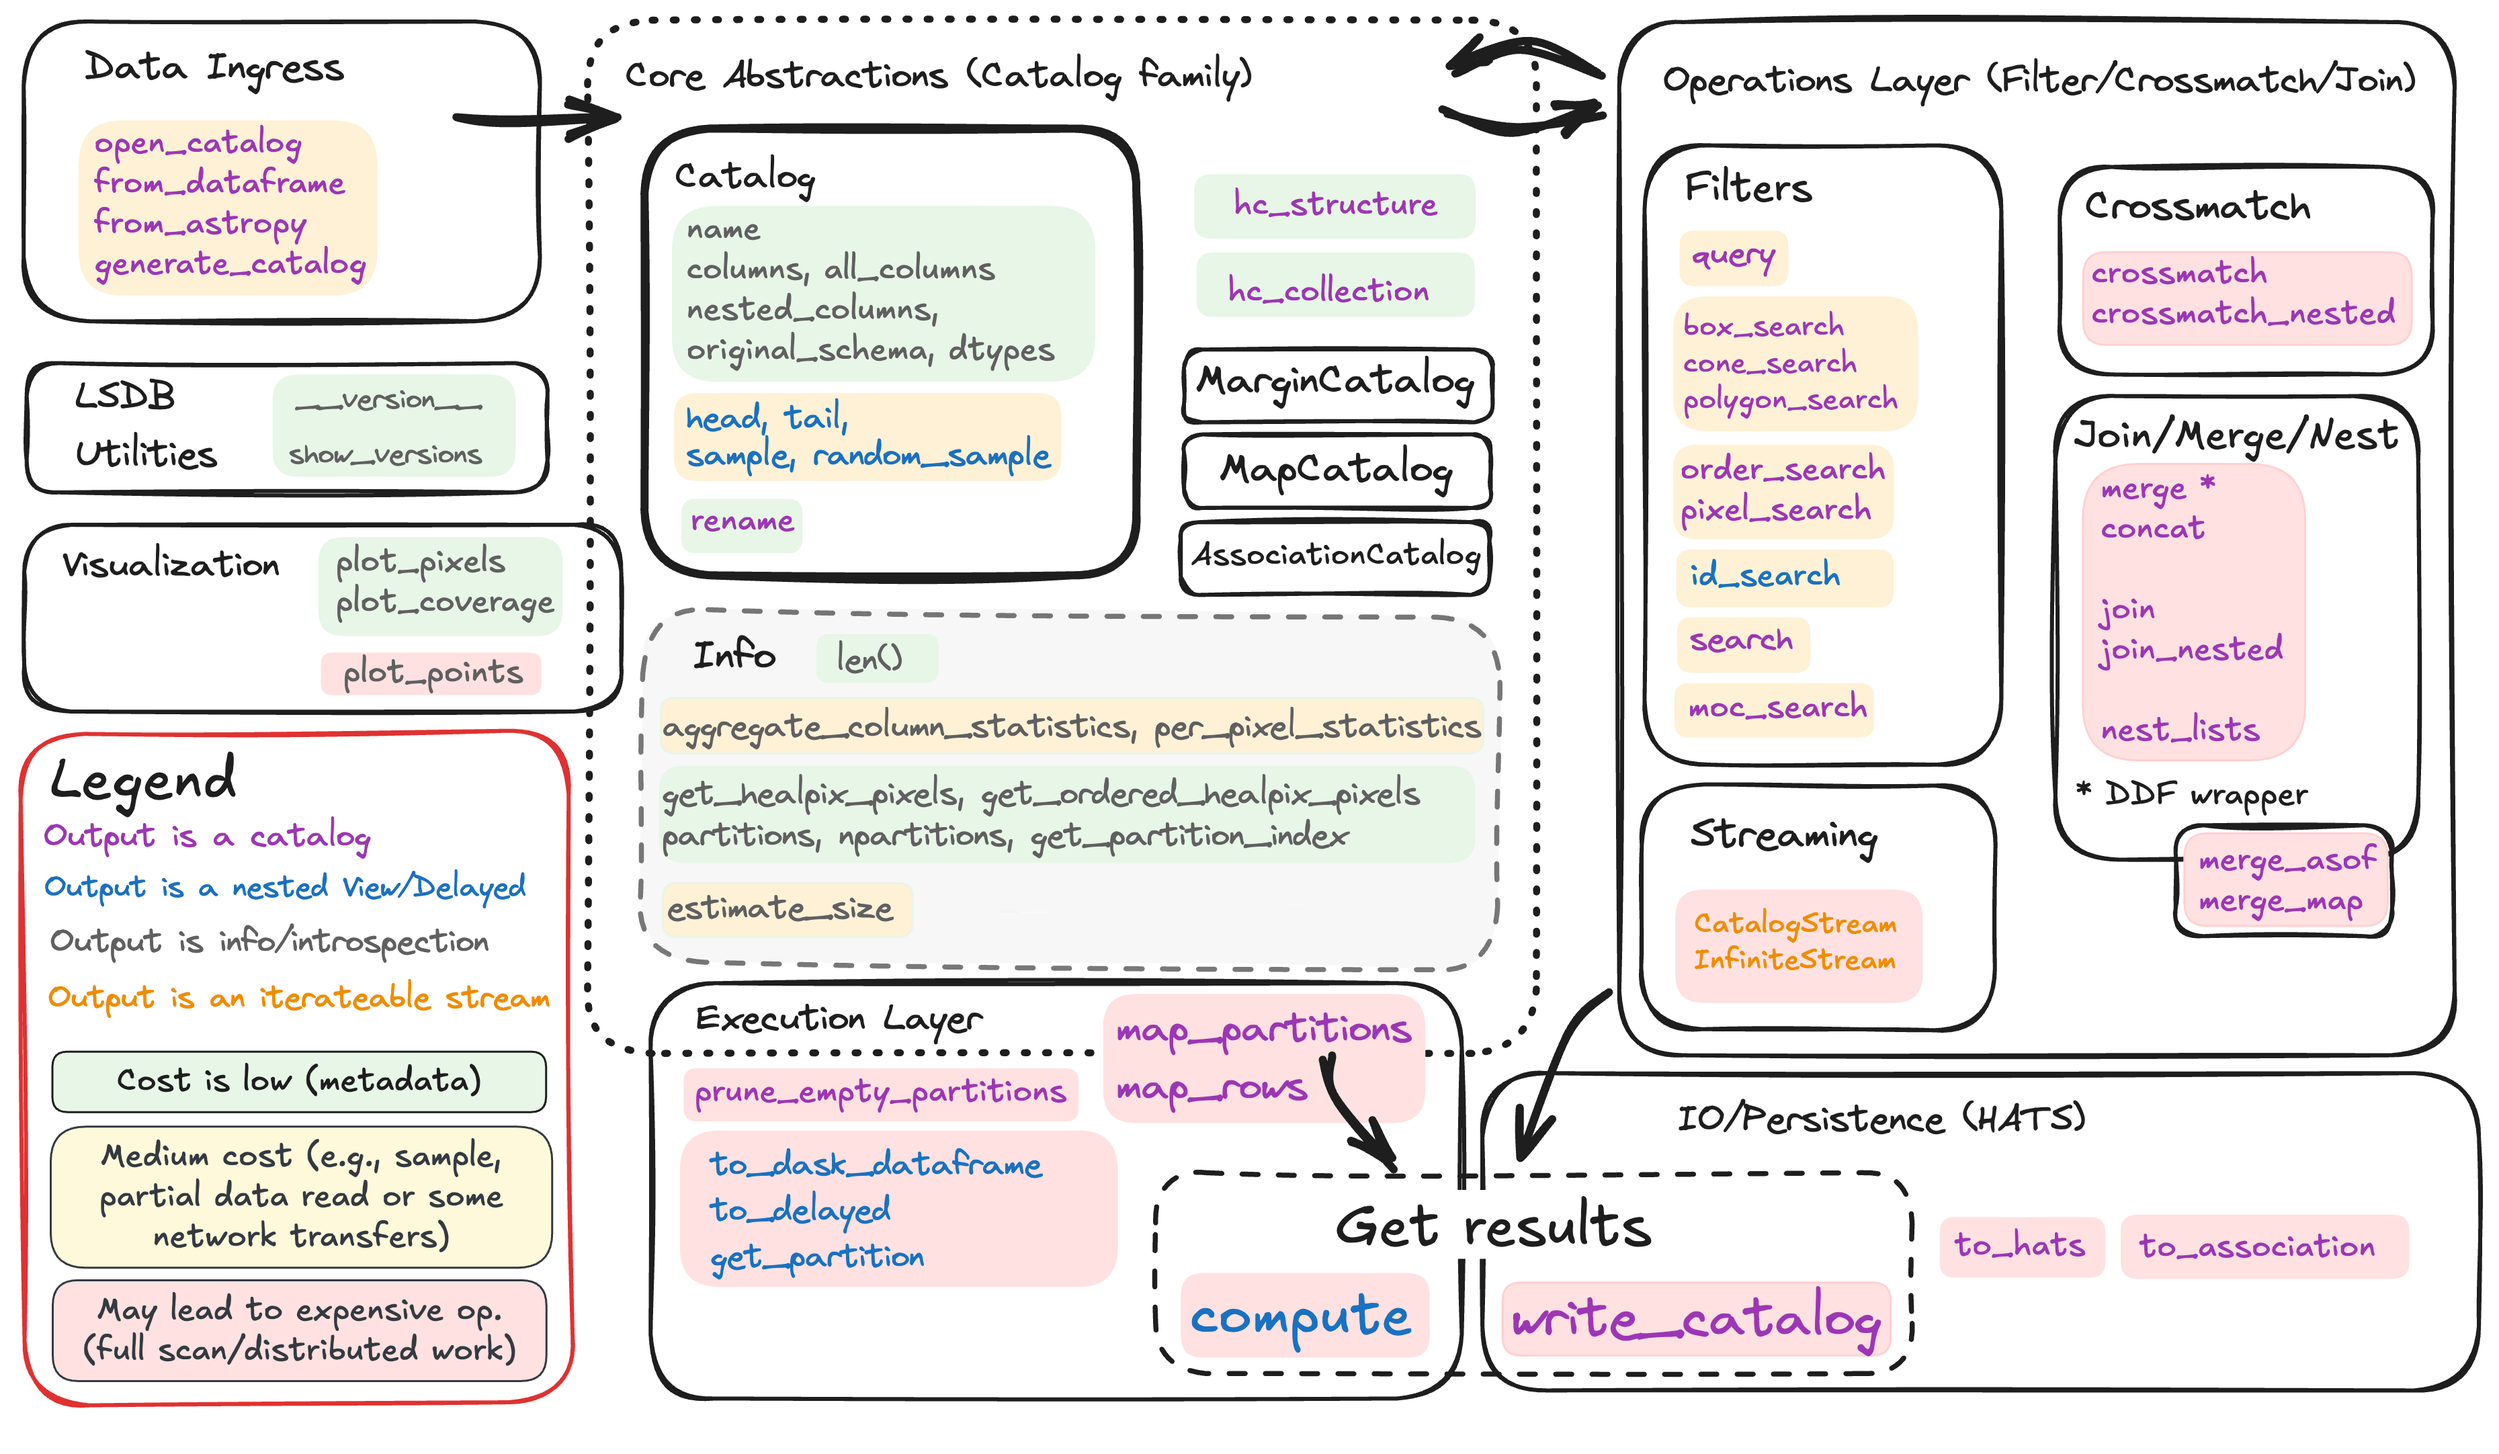
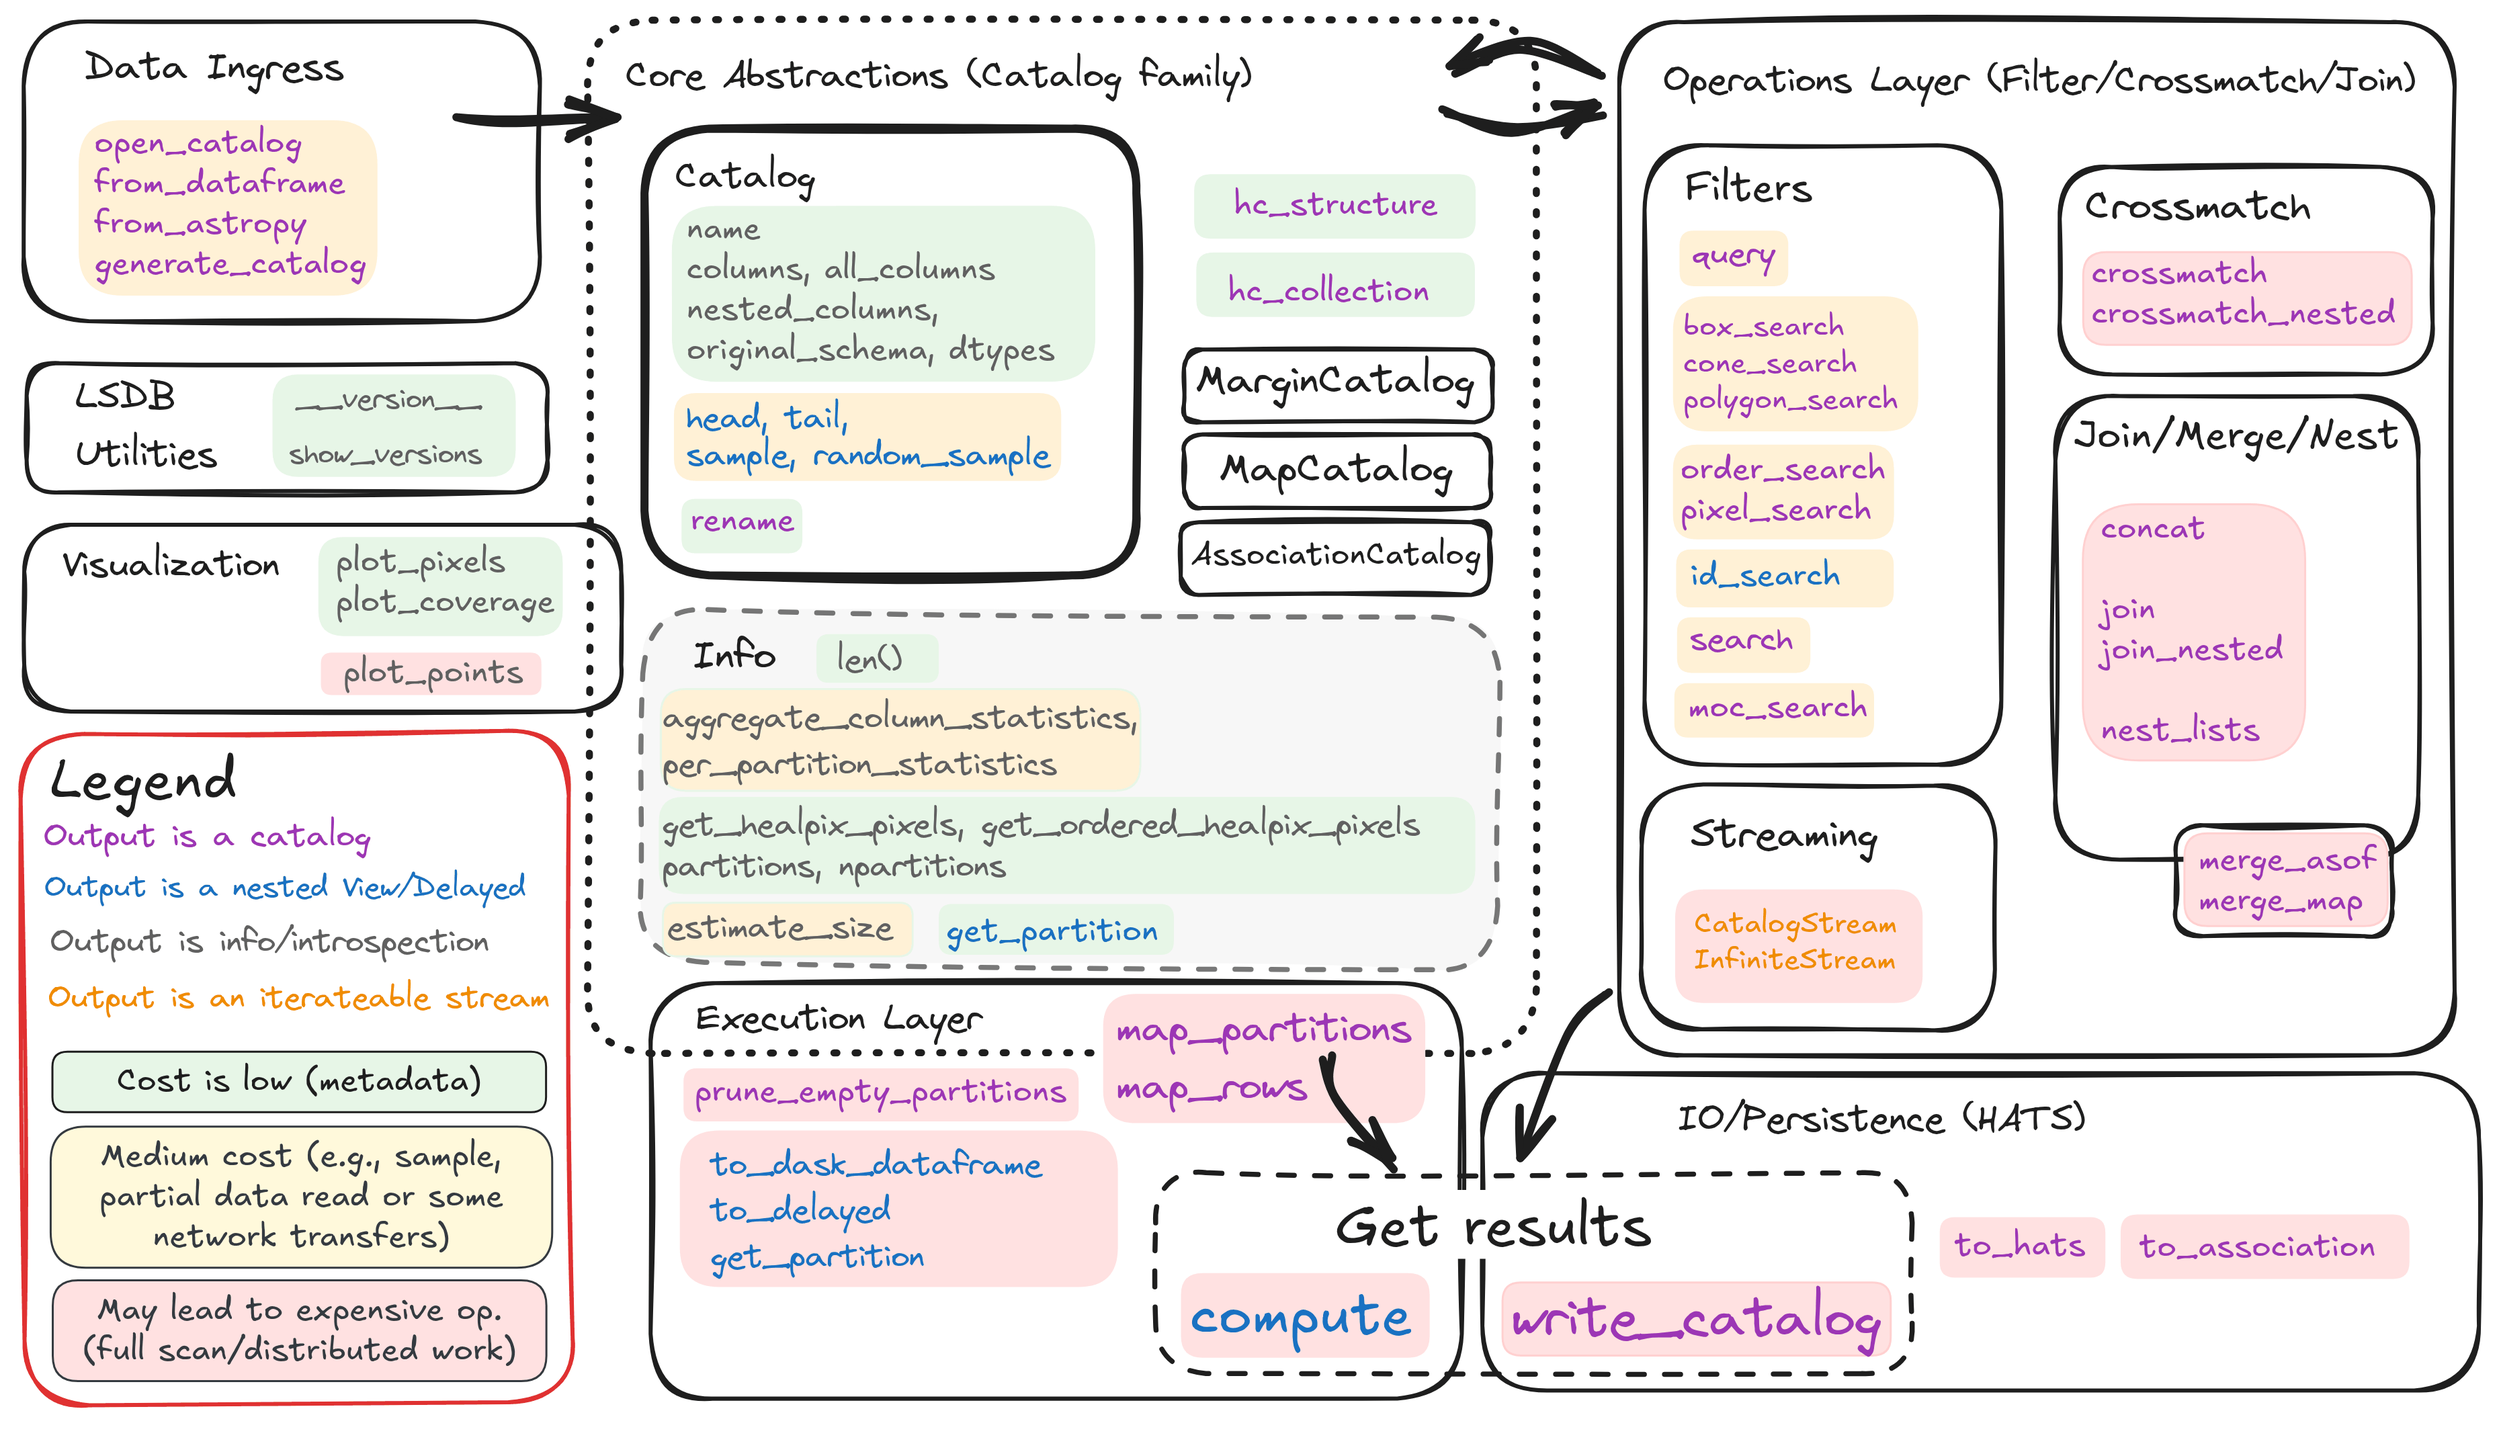
Refresh API surface figure

Changed region(s): [[0.2495, 0.4644, 0.5926, 0.6811], [0.811, 0.3096, 0.9357, 0.3715], [0.8422, 0.5263, 0.9357, 0.5573]]

diff --git a/docs/index.rst b/docs/index.rst
@@ -40,7 +40,7 @@ operations.
           <area shape="rect" coords="126,178,549,243" href="reference/api/lsdb.open_catalog.html" alt="open_catalog" />
           <area shape="rect" coords="126,238,549,303" href="reference/api/lsdb.from_dataframe.html" alt="from_dataframe" />
           <area shape="rect" coords="126,298,549,364" href="reference/api/lsdb.from_astropy.html" alt="from_astropy" />
-          <area shape="rect" coords="126,358,549,424" href="reference/api/lsdb.nested.datasets.generation.generate_catalog.html" alt="generate_catalog" />
+          <area shape="rect" coords="126,358,549,424" href="reference/api/lsdb.catalog.generation.generate_catalog.html" alt="generate_catalog" />
           <area shape="rect" coords="417,632,721,690" href="reference/api/lsdb.show_versions.html" alt="show_versions" />
           <area shape="rect" coords="487,802,829,868" href="reference/api/lsdb.catalog.Catalog.plot_pixels.html" alt="plot_pixels" />
           <area shape="rect" coords="487,862,829,928" href="reference/api/lsdb.catalog.Catalog.plot_coverage.html" alt="plot_coverage" />
@@ -65,14 +65,13 @@ operations.
          <area shape="rect" coords="1757,792,2218,858" href="reference/api/lsdb.io.to_association.html" alt="AssociationCatalog" />
 
           <area shape="rect" coords="1233,948,1308,1014" href="reference/api/lsdb.catalog.Catalog.__len__.html" alt="len" />
-          <area shape="rect" coords="974,1044,1664,1110" href="reference/api/lsdb.catalog.Catalog.aggregate_column_statistics.html" alt="aggregate_column_statistics" />
-          <area shape="rect" coords="1666,1044,2181,1110" href="reference/api/lsdb.catalog.Catalog.per_pixel_statistics.html" alt="per_pixel_statistics" />
-          <area shape="rect" coords="974,1148,1451,1213" href="reference/api/lsdb.catalog.Catalog.get_healpix_pixels.html" alt="get_healpix_pixels" />
-          <area shape="rect" coords="1453,1148,2136,1213" href="reference/api/lsdb.catalog.Catalog.get_ordered_healpix_pixels.html" alt="get_ordered_healpix_pixels" />
-          <area shape="rect" coords="974,1210,1228,1275" href="reference/api/lsdb.catalog.Catalog.partitions.html" alt="partitions" />
-          <area shape="rect" coords="1230,1210,1541,1275" href="reference/api/lsdb.catalog.Catalog.npartitions.html" alt="npartitions" />
-          <area shape="rect" coords="1543,1210,2068,1275" href="reference/api/lsdb.catalog.Catalog.get_partition_index.html" alt="get_partition_index" />
-          <area shape="rect" coords="981,1319,1333,1384" href="reference/api/lsdb.catalog.Catalog.estimate_size.html" alt="estimate_size" />
+          <area shape="rect" coords="982,1033,1695,1106" href="reference/api/lsdb.catalog.Catalog.aggregate_column_statistics.html" alt="aggregate_column_statistics" />
+          <area shape="rect" coords="982,1113,1577,1173" href="reference/api/lsdb.catalog.Catalog.per_partition_statistics.html" alt="per_partition_statistics" />
+          <area shape="rect" coords="974,1194,1451,1259" href="reference/api/lsdb.catalog.Catalog.get_healpix_pixels.html" alt="get_healpix_pixels" />
+          <area shape="rect" coords="1453,1194,2136,1259" href="reference/api/lsdb.catalog.Catalog.get_ordered_healpix_pixels.html" alt="get_ordered_healpix_pixels" />
+          <area shape="rect" coords="974,1256,1228,1321" href="reference/api/lsdb.catalog.Catalog.partitions.html" alt="partitions" />
+          <area shape="rect" coords="1230,1256,1541,1321" href="reference/api/lsdb.catalog.Catalog.npartitions.html" alt="npartitions" />
+          <area shape="rect" coords="981,1348,1333,1413" href="reference/api/lsdb.catalog.Catalog.estimate_size.html" alt="estimate_size" />
           <area shape="rect" coords="1046,1836,1398,1902" href="reference/api/lsdb.catalog.Catalog.get_partition.html" alt="get_partition" />
 
           <area shape="rect" coords="1022,1593,1593,1658" href="reference/api/lsdb.catalog.Catalog.prune_empty_partitions.html" alt="prune_empty_partitions" />
@@ -93,7 +92,6 @@ operations.
 
           <area shape="rect" coords="3106,372,3576,438" href="reference/api/lsdb.catalog.Catalog.crossmatch.html" alt="crossmatch" />
           <area shape="rect" coords="3106,432,3576,498" href="reference/api/lsdb.catalog.Catalog.crossmatch_nested.html" alt="crossmatch_nested" />
-          <area shape="rect" coords="3120,693,3331,758" href="reference/api/lsdb.catalog.Catalog.merge.html" alt="merge" />
           <area shape="rect" coords="3120,753,3409,819" href="reference/api/lsdb.catalog.Catalog.concat.html" alt="concat" />
           <area shape="rect" coords="3120,873,3409,939" href="reference/api/lsdb.catalog.Catalog.join.html" alt="join" />
           <area shape="rect" coords="3120,933,3409,999" href="reference/api/lsdb.catalog.Catalog.join_nested.html" alt="join_nested" />
